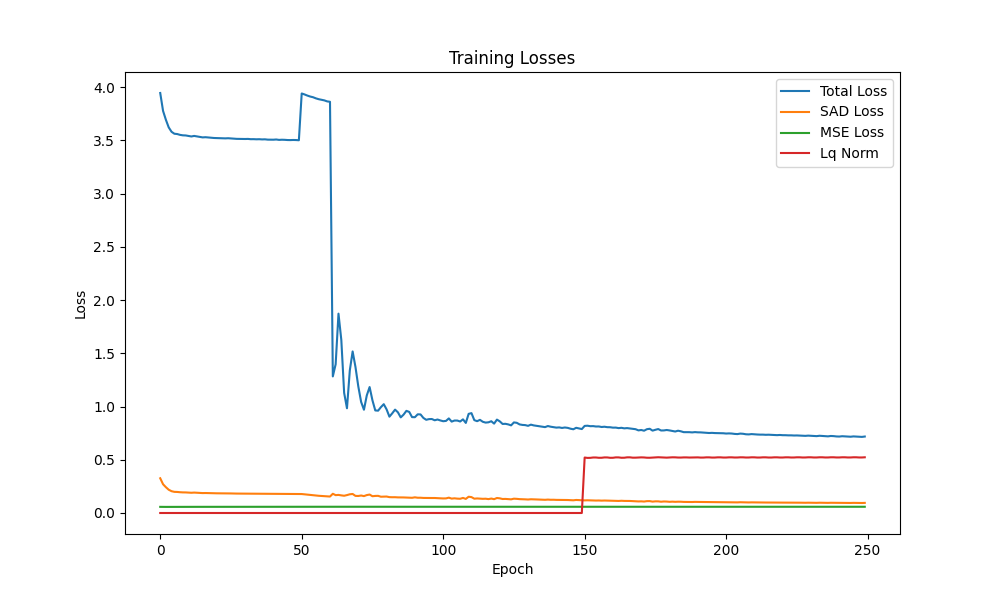
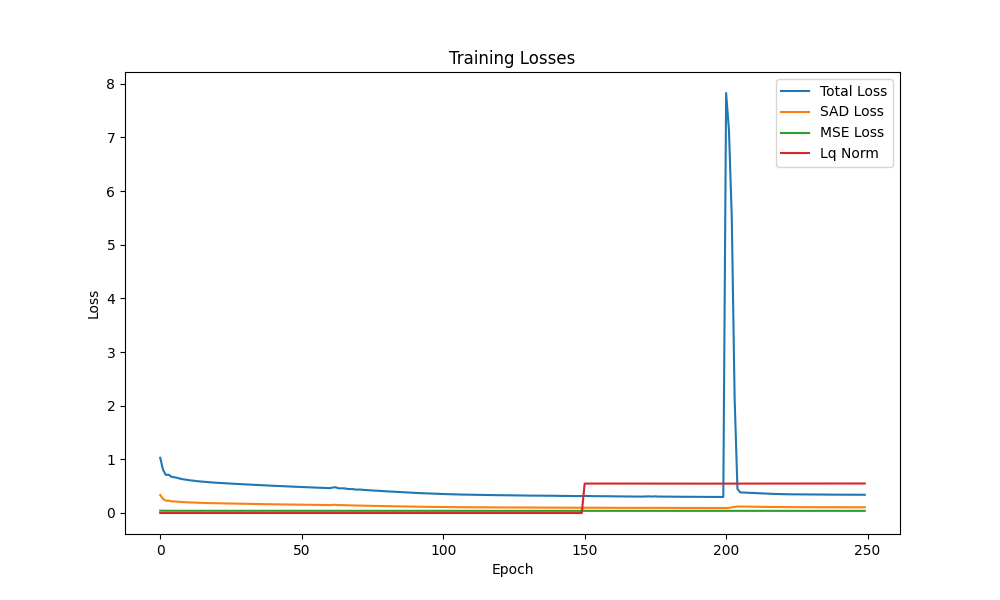
Refactor: Improve abundance normalization and regularization techniques

diff --git a/hsu.py b/hsu.py
@@ -247,10 +247,8 @@ class CrossAttentionFusion(nn.Module):
         FC = torch.sigmoid(self.linear_local(FC_input))  # [B, P, H, W]
         SG_hat = self.beta * FC * SC + SG
 
-        # Final fusion
-        S_raw = SG_hat + SC_hat
-        S = torch.clamp(S_raw, min=1e-8)
-        S = S / (torch.sum(S, dim=1, keepdim=True) + 1e-8)
+        # Final fusion - use softmax for proper probability distribution
+        S = F.softmax(SG_hat + SC_hat, dim=1)
         return S
 
 # ==========================================
@@ -322,10 +320,10 @@ class ACDEDecoder(nn.Module):
         B, P, H, W = abundances.shape
         N = H * W
 
-        # Ensure M is non-negative and normalized
+        # Ensure M is non-negative and L2 normalized (preserves spectral contrast)
         M_constrained = F.relu(self.M)
         M_constrained = M_constrained / \
-            (torch.sum(M_constrained, dim=0, keepdim=True) + 1e-8)
+            (torch.norm(M_constrained, p=2, dim=0, keepdim=True) + 1e-8)
 
         # Flatten for reconstruction
         A_flat = abundances.permute(0, 2, 3, 1).reshape(B * N, P)  # [B*N, P]
@@ -473,35 +471,27 @@ class MSGACD_Unmixer(nn.Module):
             global_abund = self.gat_encoder(super_feats, adj)  # [B, K, P]
 
         # Project global abundances back to pixel space
+        # Normalize GAT outputs first to ensure they're in valid range
+        global_abund = F.softmax(global_abund, dim=-1)
+
         # A_global = Q * A_nodes
         # [B, N, K] x [B, K, P] -> [B, N, P]
         global_abund_pixel = torch.bmm(Q, global_abund)
         global_abund_pixel = global_abund_pixel.permute(
             0, 2, 1).view(B, -1, H, W)
 
+        # Ensure global abundances are normalized
+        global_abund_pixel = F.softmax(global_abund_pixel, dim=1)
+
         # 2. Local CNN Branch
         local_abund = self.cnn_encoder(x)  # [B, P, H, W]
-
-        # 2-stage warm-up: disable CNN for first 20 epochs
-        if self.warmup_enabled:
-            local_abund = 0 * local_abund
+        local_abund = F.softmax(local_abund, dim=1)
 
         # 3. Fusion
         fused_abund = self.fusion(global_abund_pixel, local_abund)
 
-        # 4. Inter-Superpixel PCR smoothing
-        # Get superpixel segments from DiffSLIC
-        # Q has shape [B, N, K] where N = H*W
-        Q_argmax = torch.argmax(Q[0], dim=-1)  # [N] where N = H*W
-        # Ensure segments match the actual fused_abund shape
-        fused_H, fused_W = fused_abund.shape[2], fused_abund.shape[3]
-        if Q_argmax.shape[0] == fused_H * fused_W:
-            segments = Q_argmax.reshape(fused_H, fused_W).cpu().numpy()
-        else:
-            # Dimensions don't match - use None to let PCR create dummy segments
-            segments = None
-        smoothed_abund = self.pcr(fused_abund, superpixel_segments=segments,
-                                  alpha=torch.clamp(self.alpha_pcr, 0.0, 1.0))
+        # 4. Inter-Superpixel PCR smoothing (disabled for now)
+        smoothed_abund = fused_abund
 
         # 5. Reconstruction
         reconstruction, endmembers = self.decoder(smoothed_abund, x)
@@ -563,6 +553,43 @@ def spatial_tv_loss(abundances):
 
     tv_loss = torch.mean(torch.abs(diff_h)) + torch.mean(torch.abs(diff_v))
     return tv_loss
+
+
+def reweighted_tv_loss(abundances, image, alpha=1.0):
+    """
+    Adaptive Abundance Smoothing (AAS) with Reweighted TV.
+    Smooths abundances strongly in homogeneous regions but preserves edges.
+
+    abundances: [B, P, H, W]
+    image: [B, C, H, W] - original hyperspectral image
+    alpha: edge sensitivity parameter
+    """
+    B, P, H, W = abundances.shape
+
+    # Compute edge strength from original image
+    # Use spectral gradient magnitude
+    img_grad_h = image[:, :, :, 1:] - image[:, :, :, :-1]  # [B, C, H, W-1]
+    img_grad_v = image[:, :, 1:, :] - image[:, :, :-1, :]  # [B, C, H-1, W]
+
+    edge_strength_h = torch.norm(img_grad_h, p=2, dim=1)  # [B, H, W-1]
+    edge_strength_v = torch.norm(img_grad_v, p=2, dim=1)  # [B, H-1, W]
+
+    # Compute weights (inverse of edge strength)
+    w_h = torch.exp(-alpha * edge_strength_h)  # [B, H, W-1]
+    w_v = torch.exp(-alpha * edge_strength_v)  # [B, H-1, W]
+
+    # Abundance gradients
+    abund_grad_h = abundances[:, :, :, 1:] - \
+        abundances[:, :, :, :-1]  # [B, P, H, W-1]
+    abund_grad_v = abundances[:, :, 1:, :] - \
+        abundances[:, :, :-1, :]  # [B, P, H-1, W]
+
+    # Reweighted TV: weighted L1 norm of gradients
+    rtv_h = torch.abs(abund_grad_h) * w_h.unsqueeze(1)  # [B, P, H, W-1]
+    rtv_v = torch.abs(abund_grad_v) * w_v.unsqueeze(1)  # [B, P, H-1, W]
+
+    rtv_loss = torch.mean(rtv_h) + torch.mean(rtv_v)
+    return rtv_loss
 
 
 def endmember_orthogonality_loss(endmembers):
@@ -688,11 +715,6 @@ def train_unmixer(data_path=None, endmember_path=None):
 
         model.warmup_enabled = False
 
-        if epoch < 50:
-            model.decoder.M.requires_grad = False
-        else:
-            model.decoder.M.requires_grad = True
-
         recon, abundances, endmembers, global_abund, adj = model(img_tensor)
 
         # Use normalized abundances for losses (fused abundances are already softmax'd)
@@ -717,17 +739,20 @@ def train_unmixer(data_path=None, endmember_path=None):
             diff**2) if epoch >= 50 else torch.tensor(0.0, device=device)
 
         # Graph Laplacian regularization for smoothness (FIXED: use trace)
-        B, K, P = global_abund.shape
-        adj_float = adj.float()
-        deg = torch.sum(adj_float, dim=-1, keepdim=True)  # [B, K, 1]
-        lap = torch.diag_embed(deg.squeeze(-1)) - adj_float  # [B, K, K]
+        if epoch >= 200:
+            B, K, P = global_abund.shape
+            adj_float = adj.float()
+            deg = torch.sum(adj_float, dim=-1, keepdim=True)  # [B, K, 1]
+            lap = torch.diag_embed(deg.squeeze(-1)) - adj_float  # [B, K, K]
 
-        # Smoothness: trace(A^T * L * A) - correct formulation
-        lap_A = torch.bmm(lap, global_abund)  # [B, K, P]
-        smooth_graph = torch.bmm(
-            global_abund.transpose(1, 2), lap_A)  # [B, P, P]
-        l_graph = torch.mean(torch.diagonal(
-            smooth_graph, dim1=1, dim2=2))  # [B, P] -> scalar
+            # Smoothness: trace(A^T * L * A) - correct formulation
+            lap_A = torch.bmm(lap, global_abund)  # [B, K, P]
+            smooth_graph = torch.bmm(
+                global_abund.transpose(1, 2), lap_A)  # [B, P, P]
+            l_graph = torch.mean(torch.diagonal(
+                smooth_graph, dim1=1, dim2=2))  # [B, P] -> scalar
+        else:
+            l_graph = torch.tensor(0.0, device=device)
 
         l_endmember_sad = torch.tensor(0.0, device=device)
         if M_true is not None and epoch >= 50:
@@ -742,13 +767,13 @@ def train_unmixer(data_path=None, endmember_path=None):
                 l_endmember_sad += angle
             l_endmember_sad = l_endmember_sad / num_endmembers
 
-        if epoch < 50:
+        if epoch < 200:
             w_sad = 3.0
             w_mse = 0.5
             w_sparse = 0.0
             w_cluster = 0.0
             w_smooth = 0.0
-            w_graph = 0.1
+            w_graph = 0.0
             w_dirichlet = 0.0
             w_tv = 0.0
             w_ortho = 0.0
@@ -756,34 +781,21 @@ def train_unmixer(data_path=None, endmember_path=None):
             l_dirichlet = torch.tensor(0.0, device=device)
             l_tv_spatial = torch.tensor(0.0, device=device)
             l_ortho = torch.tensor(0.0, device=device)
-        elif epoch < 150:
+            l_graph = torch.tensor(0.0, device=device)
+        else:
             w_sad = 3.0
             w_mse = 0.5
             w_sparse = 0.0
             w_cluster = 0.0
-            w_smooth = 0.05
-            w_graph = 0.1
+            w_smooth = 0.0
+            w_graph = 0.05
             w_dirichlet = 0.0
             w_tv = 0.02
             w_ortho = 0.0
-            w_endmember_sad = 0.5
+            w_endmember_sad = 0.0
             l_dirichlet = torch.tensor(0.0, device=device)
-            l_tv_spatial = spatial_tv_loss(A)
+            l_tv_spatial = reweighted_tv_loss(A, img_crop, alpha=1.0)
             l_ortho = torch.tensor(0.0, device=device)
-        else:
-            w_sad = 3.0
-            w_mse = 0.5
-            w_sparse = 0.03
-            w_cluster = 0.001
-            w_smooth = 0.1
-            w_graph = 0.1
-            w_dirichlet = 0.01
-            w_tv = 0.05
-            w_ortho = 0.01
-            w_endmember_sad = 0.5
-            l_dirichlet = dirichlet_loss(A, alpha=0.1)
-            l_tv_spatial = spatial_tv_loss(A)
-            l_ortho = endmember_orthogonality_loss(endmembers)
 
         total_loss = (
             w_sad * l_sad +
